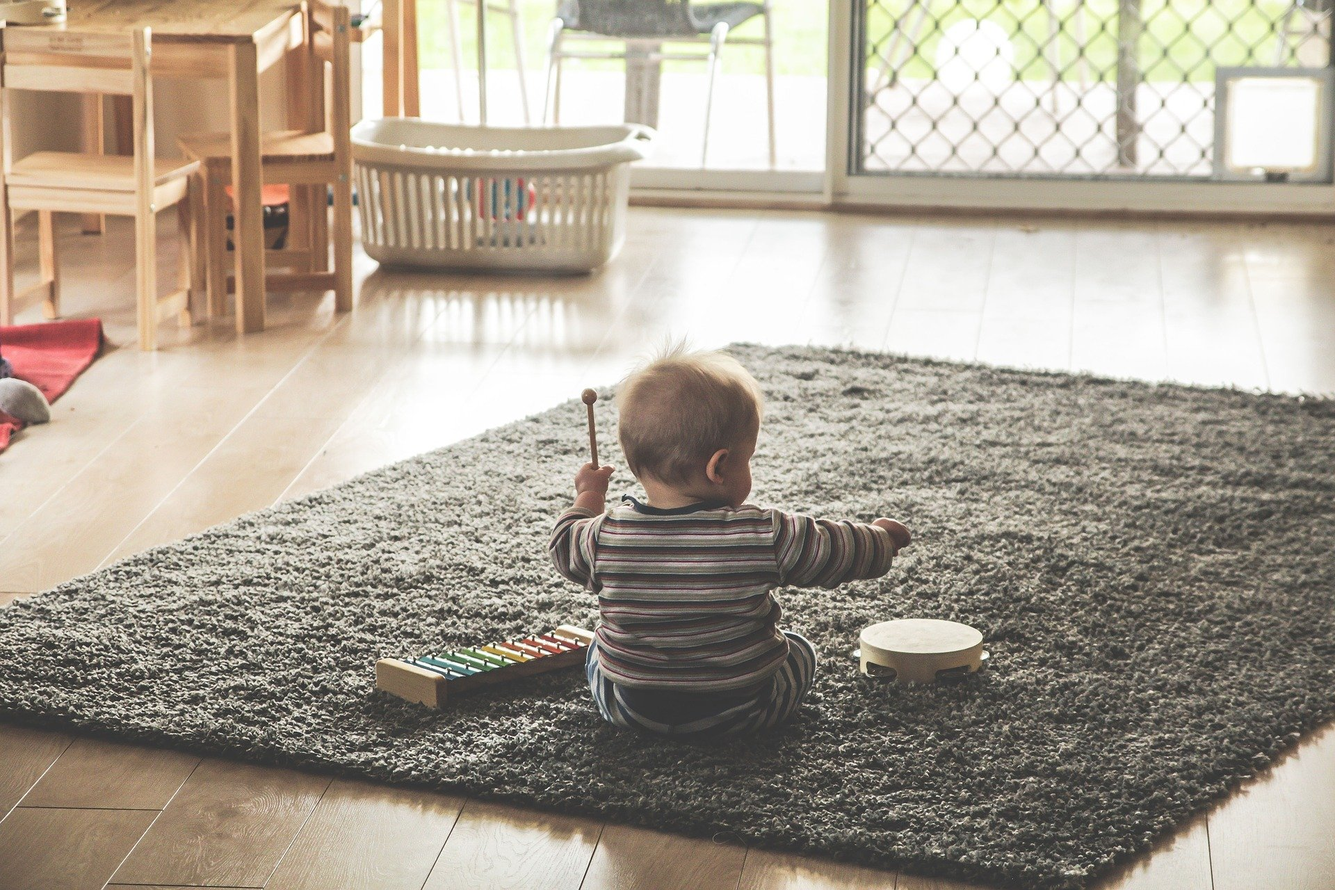
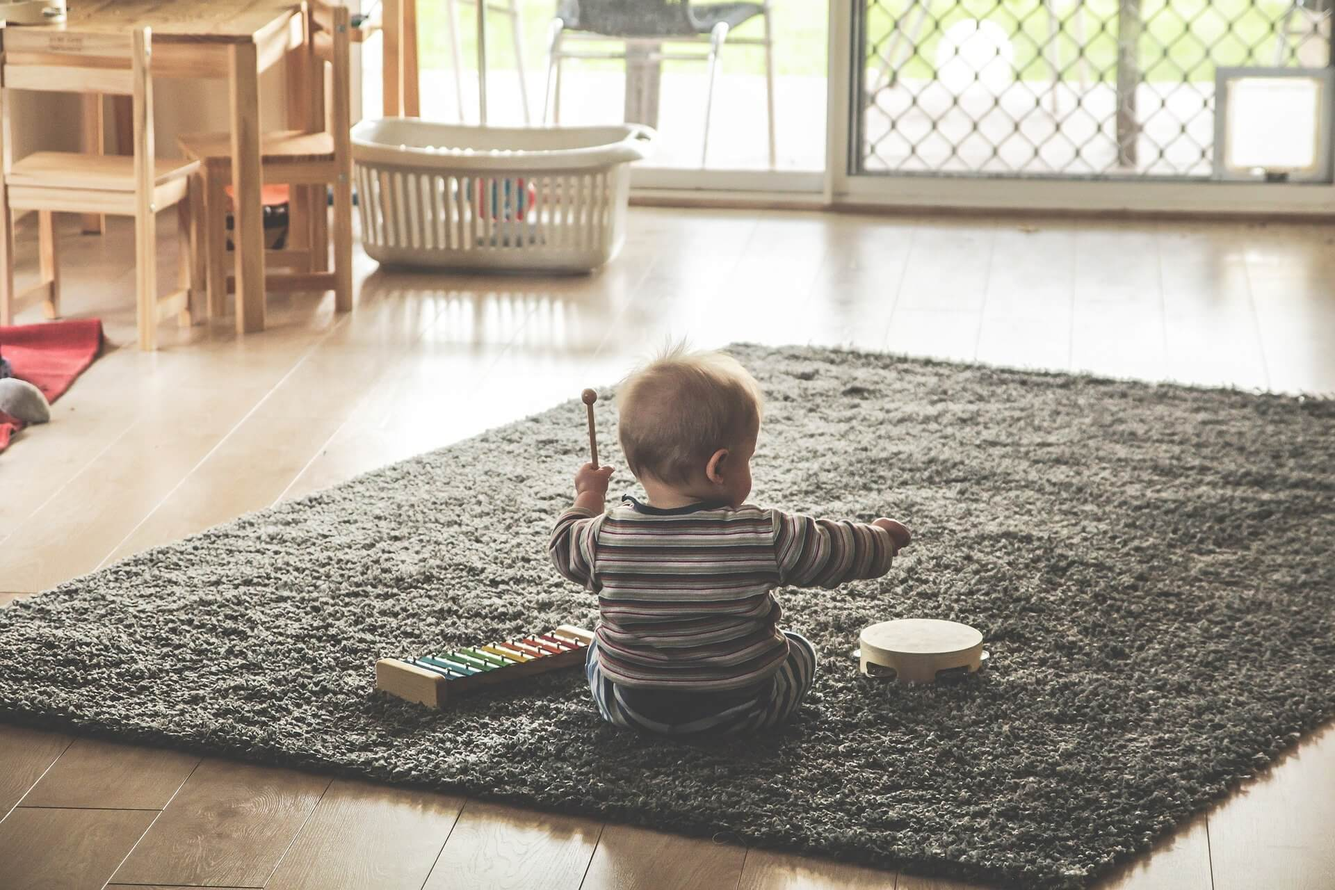
compression de la taille des images

Changed region(s): [[0.0, 0.6875, 0.3438, 0.8438], [0.2812, 0.8125, 0.4062, 0.875]]

diff --git a/style.CSS b/style.CSS
@@ -25,6 +25,11 @@ h2 {
   text-align: right;
 }
 
+.separator {
+  background-color:#ffc107;
+  width: 100%;
+}
+
 
 
 /*header*/  
@@ -90,11 +95,6 @@ h2 {
   color:aliceblue;
 }
 
-.separator {
-  background-color:lightslategray;
-  width: 100%;
-}
-
 .intro {
   text-align: justify;
   font-size: large;
@@ -133,15 +133,20 @@ h2 {
 
 
 /*portfolio*/
+.souvenir {
+  font-family: 'Old Standard TT', serif;
+  text-align: center;
+}
+
 .portfolio {
   background-color: lightgray;
   padding-bottom: 20px;
 }
 .portfolioImg {
   height: 800px;
-  background-color: rgb(219, 48, 48);
+  background-color: #ffc107;
   border: 2px solid;
-  border-color: #ffc107;
+  border-color: lightslategray;
   border-radius: 5px;
   padding-top: 15px;
 }
@@ -150,33 +155,39 @@ h2 {
 .tips h6 {
   position: relative;
   top: 80%;
-  color: white;
+  color: lightslategray;
   padding-left: 50px;
   text-shadow: 1px 1px 20px black;
 }
 
 .oboe {
   position: relative;
+  
 }
 
 .violon {
   position: relative;
   padding-top: 90px;
+  
 }
 
 .piano {
   position: relative;
   padding-top: 150px;
+  
 }
 
 .guitare {
   position: relative;
   padding-top: 45px;
+  
 }
 
 .voix {
-  position: relative;
+  position:relative;
+  margin-bottom: 30px;
 }
+
 
 /********FOOTER********/
 

diff --git a/index.html b/index.html
@@ -4,6 +4,7 @@
   <meta charset="UTF-8">
   <meta http-equiv="X-UA-Compatible" content="IE=edge">
   <meta name="viewport" content="width=device-width, initial-scale=1.0">
+  <meta class="description" content="groovinbonviv est une association musical de la ville de Bonviv. ( 150 à 180 caractères )">
   <title>créer un site web avec html, css et le farework bootstrap</title>
 
   <!--<CSS-->
@@ -145,6 +146,7 @@
   <section class="container-fluid portfolio">
 
     <h2>Souvenir</h2>
+    <p class="souvenir">"un peu de nous en images"</p>
 
     <div class="container portfolioImg">
       <!--<div class="row justify-content-center">
